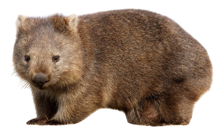
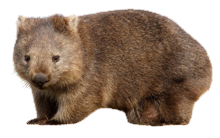
Wombat hover: pause animation and show Wikipedia preview card
Cut the wombat out of its white background (edge flood fill with
feathered edges). Hovering the wombat pauses the roam/flip/hop
animations and shows a card with the live Wikipedia summary for
Wombat (thumbnail, extract, link), fetched client-side from the
Wikipedia REST API with a static fallback. The flip animation moved
to its own wrapper so the card never renders mirrored, and the card
clamps to the viewport when the wombat pauses near an edge.

diff --git a/index.html b/index.html
@@ -19,7 +19,6 @@
   #wombat-zone {
     position: relative;
     height: 200px;
-    overflow: hidden;
     margin-top: 60px;
   }
   #wombat-roam {
@@ -28,23 +27,73 @@
     left: 0;
     animation: roam 14s linear infinite;
   }
-  #wombat-roam img {
+  /* The flip lives on its own wrapper so the hover card above never mirrors */
+  #wombat-flip {
+    animation: face 14s linear infinite;
+  }
+  #wombat-flip img {
     display: block;
     animation: hop 0.5s ease-in-out infinite;
   }
-  /* The wombat faces left, so flip it when it travels right */
+  /* Hovering the wombat (or its card) freezes everything mid-hop */
+  #wombat-roam:hover,
+  #wombat-roam:hover #wombat-flip,
+  #wombat-roam:hover img {
+    animation-play-state: paused;
+  }
   @keyframes roam {
-    0%    { left: 0; transform: scaleX(-1); }
-    49.9% { left: calc(100% - 220px); transform: scaleX(-1); }
-    50%   { left: calc(100% - 220px); transform: scaleX(1); }
-    100%  { left: 0; transform: scaleX(1); }
+    0%   { left: 0; }
+    50%  { left: calc(100% - 220px); }
+    100% { left: 0; }
+  }
+  /* The wombat faces left, so flip it when it travels right */
+  @keyframes face {
+    0%, 49.9% { transform: scaleX(-1); }
+    50%, 100% { transform: scaleX(1); }
   }
   @keyframes hop {
     0%, 100% { transform: translateY(0); }
     50%      { transform: translateY(-35px); }
   }
+  /* Wikipedia preview card, hidden until the wombat is hovered.
+     The transparent padding-bottom bridges the gap so the mouse can
+     travel from wombat to card without the card vanishing. */
+  #wombat-card {
+    position: absolute;
+    bottom: 100%;
+    left: 50%;
+    transform: translateX(-50%);
+    padding-bottom: 10px;
+    visibility: hidden;
+    opacity: 0;
+    transition: opacity 0.15s;
+    z-index: 10;
+  }
+  #wombat-roam:hover #wombat-card {
+    visibility: visible;
+    opacity: 1;
+  }
+  #wombat-card-inner {
+    width: 300px;
+    background: #fff;
+    border: 1px solid #a2a9b1;
+    border-radius: 8px;
+    box-shadow: 0 6px 20px rgba(0, 0, 0, 0.25);
+    padding: 12px 14px;
+    font-size: 14px;
+    line-height: 1.4;
+  }
+  #wombat-card-inner img {
+    float: right;
+    width: 90px;
+    border-radius: 4px;
+    margin: 0 0 6px 10px;
+  }
+  #wombat-card-inner p {
+    margin: 6px 0;
+  }
   @media (prefers-reduced-motion: reduce) {
-    #wombat-roam, #wombat-roam img { animation: none; }
+    #wombat-roam, #wombat-flip, #wombat-flip img { animation: none; }
   }
 </style>
 </head>
@@ -100,9 +149,52 @@
 
 <div id="wombat-zone">
   <div id="wombat-roam">
-    <img src="wombat.png" alt="A wombat hopping back and forth" width="220">
+    <div id="wombat-card">
+      <div id="wombat-card-inner">
+        <img id="wombat-card-img" alt="" hidden>
+        <strong id="wombat-card-title">Wombat</strong>
+        <p id="wombat-card-text">Loading a preview from Wikipedia&hellip;</p>
+        <a href="https://en.wikipedia.org/wiki/Wombat" target="_blank" rel="noopener">Read more on Wikipedia &rarr;</a>
+      </div>
+    </div>
+    <div id="wombat-flip">
+      <img src="wombat.png" alt="A wombat hopping back and forth" width="220">
+    </div>
   </div>
 </div>
+
+<script>
+(function () {
+  var card = document.getElementById('wombat-card');
+  var roam = document.getElementById('wombat-roam');
+
+  // Fill the card with the real Wikipedia summary (falls back to the static text)
+  fetch('https://en.wikipedia.org/api/rest_v1/page/summary/Wombat')
+    .then(function (r) { return r.json(); })
+    .then(function (d) {
+      if (d.extract) document.getElementById('wombat-card-text').textContent = d.extract;
+      if (d.thumbnail && d.thumbnail.source) {
+        var img = document.getElementById('wombat-card-img');
+        img.src = d.thumbnail.source;
+        img.hidden = false;
+      }
+    })
+    .catch(function () {
+      document.getElementById('wombat-card-text').textContent =
+        'Wombats are short-legged, muscular marsupials native to Australia.';
+    });
+
+  // Keep the card on screen when the wombat pauses near an edge
+  roam.addEventListener('mouseenter', function () {
+    card.style.transform = 'translateX(-50%)';
+    var rect = card.getBoundingClientRect();
+    var shift = 0;
+    if (rect.left < 8) shift = 8 - rect.left;
+    else if (rect.right > window.innerWidth - 8) shift = window.innerWidth - 8 - rect.right;
+    if (shift) card.style.transform = 'translateX(calc(-50% + ' + shift + 'px))';
+  });
+})();
+</script>
 
 </body>
 </html>
